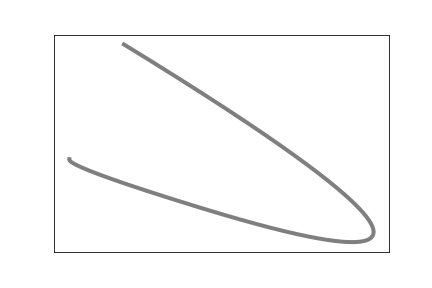
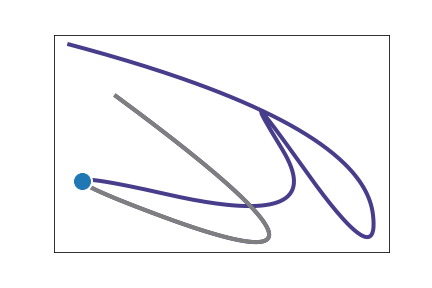
Test Figs

diff --git a/example/figureTesting.py b/example/figureTesting.py
@@ -1,0 +1,38 @@
+import ffmpeg
+import pathlib as pl
+import matplotlib.pyplot as plt
+import numpy as np
+from metavid import metavid
+import pickle
+
+# extract scene transitions
+
+for i in range(0,3):
+	mv = metavid('variables.mp4')
+	mv.get_scene_transitions() # this saves into mv.timestamps
+	mv.load_atoms(f'tools/pickle_{i}.pkl')
+	# import projected atoms arrays
+	
+
+	
+	# make plots and overlay
+	filename_s=f'testFigs_fresh{i}/straight_pickle_{i}'
+	filename_b=f'testFigs_fresh{i}/bent_pickle_{i}'
+	filename_a=f'testFigs_fresh{i}/aged_pickle_{i}'
+	mv.overlay_all_plots(
+		starting_scene_i=1, fig_type = 1, filename_base=filename_s, file_type = 'png'# so first (i=0) scene doesn't get a plot
+	)
+	
+
+	mv.overlay_all_plots(
+		starting_scene_i=1, fig_type = 2, filename_base=filename_b, file_type = 'png'# so first (i=0) scene doesn't get a plot
+	)
+	
+	
+	mv.overlay_all_plots(
+		starting_scene_i=1, fig_type = 3, filename_base=filename_a, file_type = 'png'# so first (i=0) scene doesn't get a plot
+	)
+
+# run video processing and export video
+
+# mv.export()

diff --git a/example/variables.py b/example/variables.py
@@ -17,7 +17,7 @@ mv.load_atoms('chi_pred.pkl')
 # make plots and overlay
 
 mv.overlay_all_plots(
-	starting_scene_i=1, fig_type = 2, filename_base='testFigs/plot_', file_type = 'png'# so first (i=0) scene doesn't get a plot
+	starting_scene_i=1, fig_type = 3, filename_base='testFigs/plot_', file_type = 'png'# so first (i=0) scene doesn't get a plot
 )
 
 mv.plot(filename_base='testFigs/singleOut/plot_ty_1',fig_type=1, file_type='pdf')

diff --git a/example/tools/pickeJar.py b/example/tools/pickeJar.py
@@ -1,0 +1,17 @@
+# -*- coding: utf-8 -*-
+"""
+Created on Thu Sep  9 22:32:57 2021
+
+@author: pluralize-abenson
+"""
+
+import numpy as np
+import pickle
+
+
+for i in range(0,3):
+	file_name = open(f'pickle_{i}.pkl','wb')
+	pickle.dump(np.random.rand(8,2), file_name)
+	
+	file_name.close()
+
